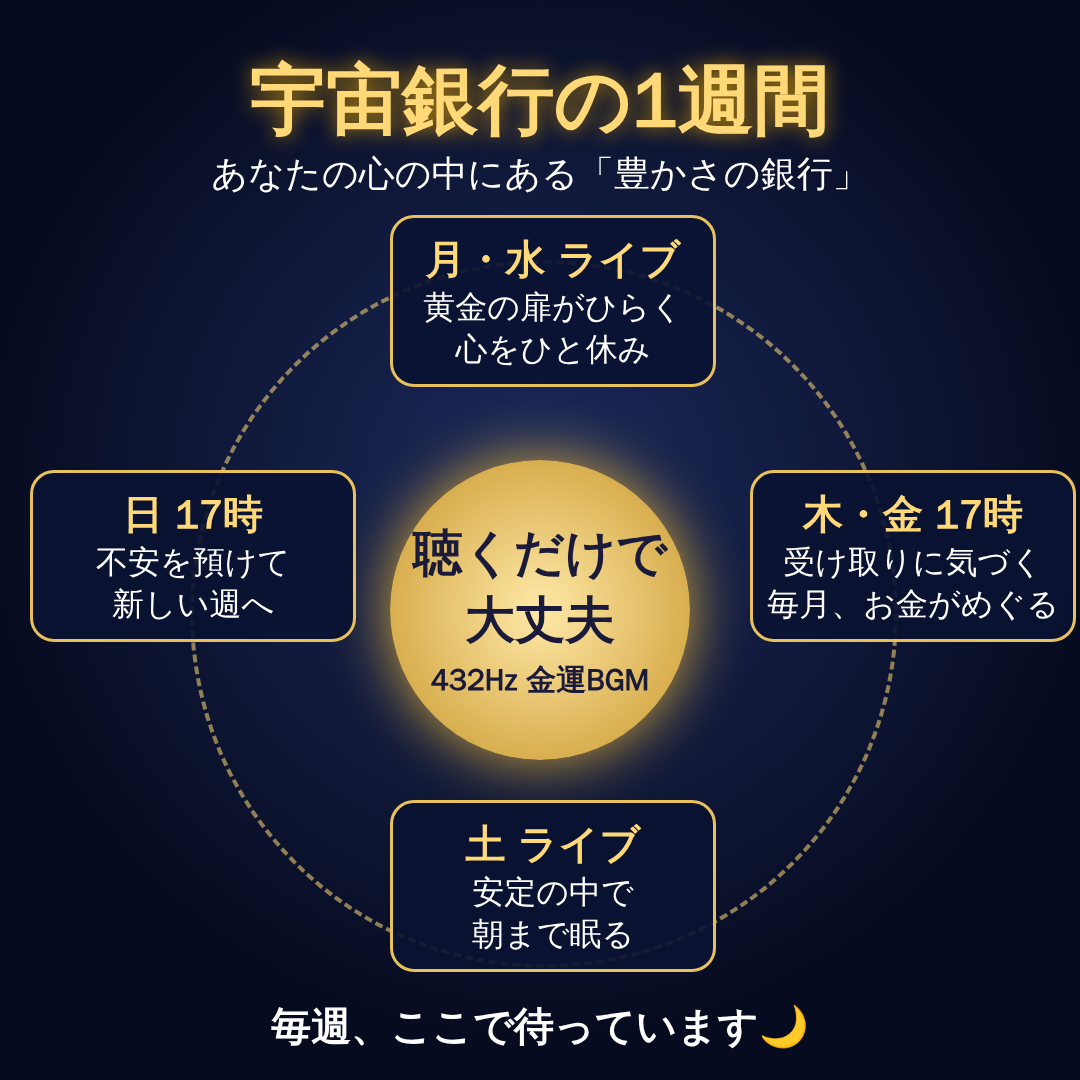
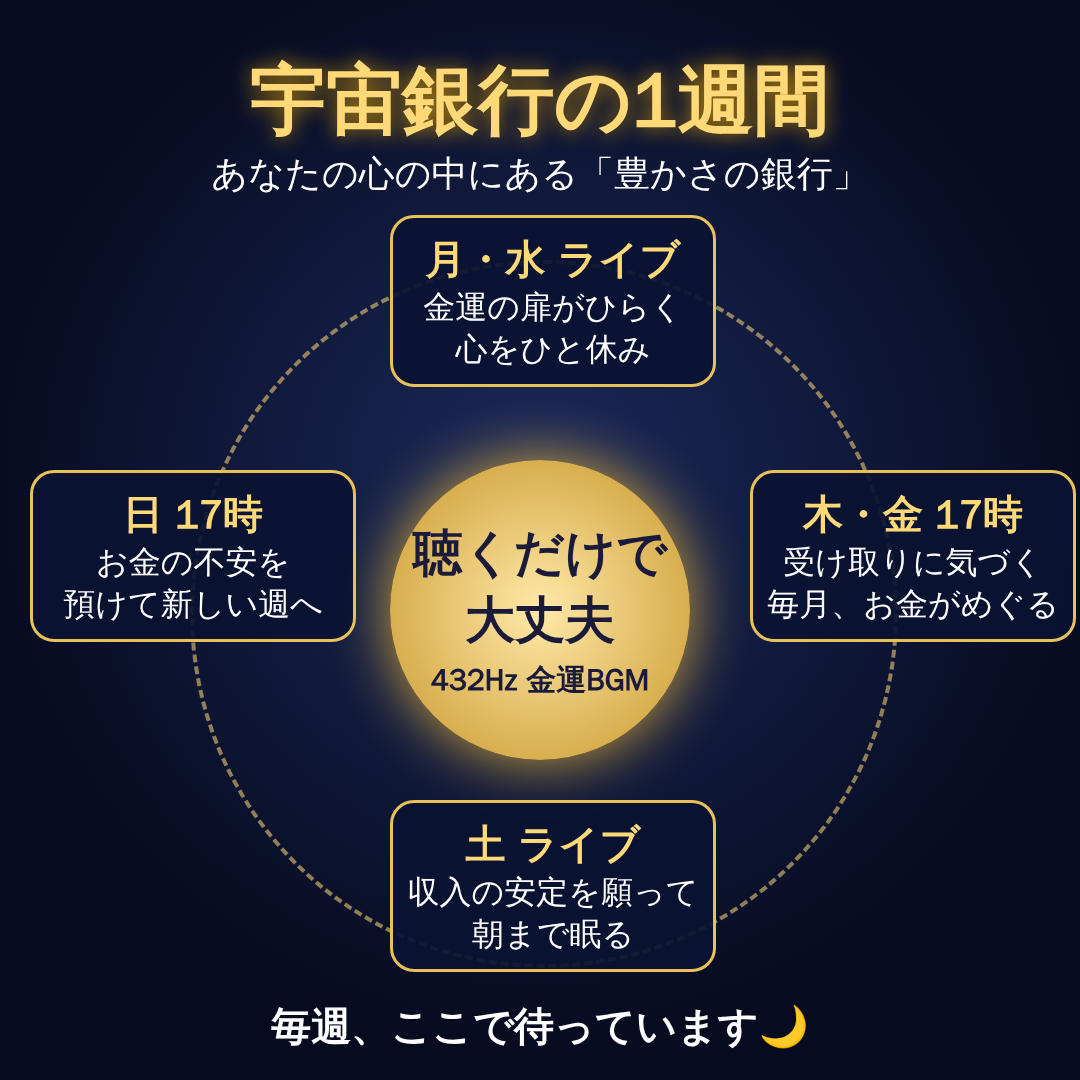
曜日テーマの言葉をわかりやすく修正（金運の扉・収入の安定・お金の不安）
Claude-Session: https://claude.ai/code/session_01UmVDqSetYb3KqKzMfzK3Ct

Changed region(s): [[0.0611, 0.4889, 0.275, 0.5806], [0.3667, 0.7944, 0.6111, 0.8556], [0.3972, 0.275, 0.4583, 0.3056]]

diff --git a/bgm/visual/banner_star.html b/bgm/visual/banner_star.html
@@ -17,9 +17,9 @@ background:radial-gradient(ellipse at 50% 50%,#1d2d63 0%,#0a1030 45%,#050818 80%
 <style>.sky i{position:absolute;border-radius:50%}.sky b{position:absolute;width:60px;height:60px;margin:-30px;background:radial-gradient(circle,#fff 0 3px,rgba(255,230,150,.6) 6px,transparent 30px),linear-gradient(90deg,transparent 45%,rgba(255,240,190,.9) 50%,transparent 55%),linear-gradient(0deg,transparent 45%,rgba(255,240,190,.9) 50%,transparent 55%)}</style><div class="sky"><i style="left:829px;top:217px;width:8px;height:8px;background:#fff;opacity:0.44;box-shadow:0 0 12px #fff"></i><i style="left:1372px;top:527px;width:3.0px;height:3.0px;background:#ffd978;opacity:0.53;box-shadow:0 0 4px #ffd978"></i><i style="left:220px;top:602px;width:4px;height:4px;background:#fff;opacity:0.73;box-shadow:0 0 6px #fff"></i><i style="left:151px;top:814px;width:4px;height:4px;background:#ffd978;opacity:0.78;box-shadow:0 0 6px #ffd978"></i><i style="left:2426px;top:831px;width:5.0px;height:5.0px;background:#fff;opacity:0.99;box-shadow:0 0 8px #fff"></i><i style="left:119px;top:1236px;width:4px;height:4px;background:#fff3c0;opacity:0.49;box-shadow:0 0 6px #fff3c0"></i><i style="left:302px;top:444px;width:8px;height:8px;background:#fff;opacity:0.46;box-shadow:0 0 12px #fff"></i><i style="left:1462px;top:271px;width:3.0px;height:3.0px;background:#ffd978;opacity:0.83;box-shadow:0 0 4px #ffd978"></i><i style="left:1445px;top:891px;width:5.0px;height:5.0px;background:#ffd978;opacity:0.72;box-shadow:0 0 8px #ffd978"></i><i style="left:1990px;top:670px;width:5.0px;height:5.0px;background:#fff3c0;opacity:0.58;box-shadow:0 0 8px #fff3c0"></i><i style="left:2034px;top:1007px;width:4px;height:4px;background:#fff;opacity:0.74;box-shadow:0 0 6px #fff"></i><i style="left:1345px;top:1260px;width:8px;height:8px;background:#fff3c0;opacity:0.57;box-shadow:0 0 12px #fff3c0"></i><i style="left:2509px;top:170px;width:5.0px;height:5.0px;background:#fff;opacity:0.85;box-shadow:0 0 8px #fff"></i><i style="left:389px;top:704px;width:3.0px;height:3.0px;background:#ffd978;opacity:0.45;box-shadow:0 0 4px #ffd978"></i><i style="left:1429px;top:1136px;width:4px;height:4px;background:#fff3c0;opacity:0.82;box-shadow:0 0 6px #fff3c0"></i><i style="left:1522px;top:835px;width:5.0px;height:5.0px;background:#fff;opacity:0.90;box-shadow:0 0 8px #fff"></i><i style="left:2418px;top:683px;width:8px;height:8px;background:#fff;opacity:0.44;box-shadow:0 0 12px #fff"></i><i style="left:1796px;top:932px;width:8px;height:8px;background:#fff3c0;opacity:0.57;box-shadow:0 0 12px #fff3c0"></i><i style="left:988px;top:963px;width:3.0px;height:3.0px;background:#fff3c0;opacity:0.61;box-shadow:0 0 4px #fff3c0"></i><i style="left:1564px;top:711px;width:4px;height:4px;background:#fff3c0;opacity:0.48;box-shadow:0 0 6px #fff3c0"></i><i style="left:634px;top:563px;width:5.0px;height:5.0px;background:#fff;opacity:0.50;box-shadow:0 0 8px #fff"></i><i style="left:1028px;top:400px;width:4px;height:4px;background:#fff3c0;opacity:0.92;box-shadow:0 0 6px #fff3c0"></i><i style="left:713px;top:598px;width:4px;height:4px;background:#ffd978;opacity:0.93;box-shadow:0 0 6px #ffd978"></i><i style="left:2452px;top:217px;width:4px;height:4px;background:#fff;opacity:0.54;box-shadow:0 0 6px #fff"></i><i style="left:597px;top:698px;width:6px;height:6px;background:#fff;opacity:0.56;box-shadow:0 0 9px #fff"></i><i style="left:10px;top:603px;width:4px;height:4px;background:#ffd978;opacity:0.74;box-shadow:0 0 6px #ffd978"></i><i style="left:2440px;top:994px;width:6px;height:6px;background:#ffd978;opacity:0.79;box-shadow:0 0 9px #ffd978"></i><i style="left:1894px;top:658px;width:8px;height:8px;background:#ffd978;opacity:0.64;box-shadow:0 0 12px #ffd978"></i><i style="left:1021px;top:149px;width:8px;height:8px;background:#fff3c0;opacity:0.44;box-shadow:0 0 12px #fff3c0"></i><i style="left:172px;top:301px;width:4px;height:4px;background:#fff;opacity:0.60;box-shadow:0 0 6px #fff"></i><i style="left:135px;top:0px;width:4px;height:4px;background:#ffd978;opacity:0.46;box-shadow:0 0 6px #ffd978"></i><i style="left:931px;top:37px;width:4px;height:4px;background:#ffd978;opacity:0.63;box-shadow:0 0 6px #ffd978"></i><i style="left:1624px;top:1376px;width:6px;height:6px;background:#fff3c0;opacity:0.68;box-shadow:0 0 9px #fff3c0"></i><i style="left:295px;top:703px;width:5.0px;height:5.0px;background:#fff3c0;opacity:0.69;box-shadow:0 0 8px #fff3c0"></i><i style="left:220px;top:147px;width:4px;height:4px;background:#ffd978;opacity:0.56;box-shadow:0 0 6px #ffd978"></i><i style="left:2122px;top:232px;width:3.0px;height:3.0px;background:#fff;opacity:0.97;box-shadow:0 0 4px #fff"></i><i style="left:1352px;top:211px;width:6px;height:6px;background:#fff;opacity:0.85;box-shadow:0 0 9px #fff"></i><i style="left:763px;top:926px;width:3.0px;height:3.0px;background:#ffd978;opacity:0.91;box-shadow:0 0 4px #ffd978"></i><i style="left:1327px;top:1308px;width:4px;height:4px;background:#fff;opacity:0.72;box-shadow:0 0 6px #fff"></i><i style="left:1994px;top:475px;width:4px;height:4px;background:#ffd978;opacity:0.89;box-shadow:0 0 6px #ffd978"></i><i style="left:2521px;top:1228px;width:4px;height:4px;background:#fff3c0;opacity:0.84;box-shadow:0 0 6px #fff3c0"></i><i style="left:580px;top:745px;width:4px;height:4px;background:#ffd978;opacity:0.42;box-shadow:0 0 6px #ffd978"></i><i style="left:72px;top:402px;width:4px;height:4px;background:#fff;opacity:0.82;box-shadow:0 0 6px #fff"></i><i style="left:2449px;top:644px;width:8px;height:8px;background:#fff3c0;opacity:0.97;box-shadow:0 0 12px #fff3c0"></i><i style="left:933px;top:317px;width:4px;height:4px;background:#fff3c0;opacity:0.52;box-shadow:0 0 6px #fff3c0"></i><i style="left:523px;top:899px;width:6px;height:6px;background:#fff;opacity:0.69;box-shadow:0 0 9px #fff"></i><i style="left:1672px;top:1151px;width:3.0px;height:3.0px;background:#ffd978;opacity:0.47;box-shadow:0 0 4px #ffd978"></i><i style="left:995px;top:1025px;width:4px;height:4px;background:#fff3c0;opacity:0.93;box-shadow:0 0 6px #fff3c0"></i><i style="left:1111px;top:916px;width:3.0px;height:3.0px;background:#ffd978;opacity:0.64;box-shadow:0 0 4px #ffd978"></i><i style="left:1028px;top:1363px;width:8px;height:8px;background:#fff;opacity:0.50;box-shadow:0 0 12px #fff"></i><i style="left:325px;top:218px;width:5.0px;height:5.0px;background:#ffd978;opacity:0.49;box-shadow:0 0 8px #ffd978"></i><i style="left:2116px;top:1412px;width:8px;height:8px;background:#fff3c0;opacity:0.49;box-shadow:0 0 12px #fff3c0"></i><i style="left:1404px;top:31px;width:8px;height:8px;background:#ffd978;opacity:0.46;box-shadow:0 0 12px #ffd978"></i><i style="left:1919px;top:201px;width:4px;height:4px;background:#fff;opacity:0.42;box-shadow:0 0 6px #fff"></i><i style="left:545px;top:722px;width:6px;height:6px;background:#fff3c0;opacity:0.56;box-shadow:0 0 9px #fff3c0"></i><i style="left:1073px;top:189px;width:8px;height:8px;background:#fff3c0;opacity:0.94;box-shadow:0 0 12px #fff3c0"></i><i style="left:1696px;top:1174px;width:6px;height:6px;background:#fff3c0;opacity:0.90;box-shadow:0 0 9px #fff3c0"></i><i style="left:2248px;top:188px;width:4px;height:4px;background:#ffd978;opacity:0.71;box-shadow:0 0 6px #ffd978"></i><i style="left:2234px;top:1118px;width:6px;height:6px;background:#fff;opacity:0.87;box-shadow:0 0 9px #fff"></i><i style="left:383px;top:204px;width:6px;height:6px;background:#ffd978;opacity:0.47;box-shadow:0 0 9px #ffd978"></i><i style="left:158px;top:983px;width:6px;height:6px;background:#ffd978;opacity:0.69;box-shadow:0 0 9px #ffd978"></i><i style="left:1988px;top:1272px;width:3.0px;height:3.0px;background:#fff;opacity:0.51;box-shadow:0 0 4px #fff"></i><i style="left:108px;top:141px;width:5.0px;height:5.0px;background:#ffd978;opacity:0.42;box-shadow:0 0 8px #ffd978"></i><i style="left:2289px;top:91px;width:4px;height:4px;background:#ffd978;opacity:0.98;box-shadow:0 0 6px #ffd978"></i><i style="left:1552px;top:287px;width:4px;height:4px;background:#fff3c0;opacity:0.70;box-shadow:0 0 6px #fff3c0"></i><i style="left:2067px;top:731px;width:4px;height:4px;background:#ffd978;opacity:0.71;box-shadow:0 0 6px #ffd978"></i><i style="left:2243px;top:1336px;width:6px;height:6px;background:#fff;opacity:0.90;box-shadow:0 0 9px #fff"></i><i style="left:351px;top:175px;width:5.0px;height:5.0px;background:#fff3c0;opacity:0.44;box-shadow:0 0 8px #fff3c0"></i><i style="left:616px;top:105px;width:8px;height:8px;background:#fff3c0;opacity:0.87;box-shadow:0 0 12px #fff3c0"></i><i style="left:2296px;top:222px;width:8px;height:8px;background:#ffd978;opacity:0.80;box-shadow:0 0 12px #ffd978"></i><i style="left:366px;top:1271px;width:5.0px;height:5.0px;background:#fff;opacity:0.85;box-shadow:0 0 8px #fff"></i><i style="left:241px;top:1274px;width:4px;height:4px;background:#ffd978;opacity:0.90;box-shadow:0 0 6px #ffd978"></i><i style="left:413px;top:621px;width:6px;height:6px;background:#fff3c0;opacity:0.60;box-shadow:0 0 9px #fff3c0"></i><i style="left:501px;top:459px;width:8px;height:8px;background:#fff3c0;opacity:0.41;box-shadow:0 0 12px #fff3c0"></i><i style="left:1418px;top:634px;width:3.0px;height:3.0px;background:#fff3c0;opacity:0.60;box-shadow:0 0 4px #fff3c0"></i><i style="left:1597px;top:738px;width:3.0px;height:3.0px;background:#fff;opacity:0.99;box-shadow:0 0 4px #fff"></i><i style="left:2018px;top:1399px;width:3.0px;height:3.0px;background:#fff;opacity:0.56;box-shadow:0 0 4px #fff"></i><i style="left:101px;top:1122px;width:4px;height:4px;background:#fff;opacity:0.89;box-shadow:0 0 6px #fff"></i><i style="left:2175px;top:973px;width:4px;height:4px;background:#fff3c0;opacity:0.49;box-shadow:0 0 6px #fff3c0"></i><i style="left:2353px;top:822px;width:8px;height:8px;background:#fff3c0;opacity:0.45;box-shadow:0 0 12px #fff3c0"></i><i style="left:147px;top:991px;width:5.0px;height:5.0px;background:#fff;opacity:0.56;box-shadow:0 0 8px #fff"></i><i style="left:43px;top:128px;width:4px;height:4px;background:#fff;opacity:0.76;box-shadow:0 0 6px #fff"></i><i style="left:569px;top:381px;width:3.0px;height:3.0px;background:#fff3c0;opacity:0.41;box-shadow:0 0 4px #fff3c0"></i><i style="left:2545px;top:602px;width:4px;height:4px;background:#ffd978;opacity:0.48;box-shadow:0 0 6px #ffd978"></i><i style="left:1349px;top:343px;width:3.0px;height:3.0px;background:#fff;opacity:0.56;box-shadow:0 0 4px #fff"></i><i style="left:464px;top:1342px;width:8px;height:8px;background:#fff3c0;opacity:0.72;box-shadow:0 0 12px #fff3c0"></i><i style="left:527px;top:642px;width:8px;height:8px;background:#fff;opacity:0.56;box-shadow:0 0 12px #fff"></i><i style="left:2057px;top:1432px;width:3.0px;height:3.0px;background:#fff;opacity:0.41;box-shadow:0 0 4px #fff"></i><i style="left:1294px;top:1408px;width:6px;height:6px;background:#fff3c0;opacity:0.55;box-shadow:0 0 9px #fff3c0"></i><i style="left:1144px;top:948px;width:8px;height:8px;background:#fff3c0;opacity:0.79;box-shadow:0 0 12px #fff3c0"></i><i style="left:1398px;top:1280px;width:6px;height:6px;background:#fff3c0;opacity:0.81;box-shadow:0 0 9px #fff3c0"></i><i style="left:2515px;top:493px;width:8px;height:8px;background:#ffd978;opacity:0.78;box-shadow:0 0 12px #ffd978"></i><i style="left:1036px;top:500px;width:3.0px;height:3.0px;background:#fff;opacity:0.41;box-shadow:0 0 4px #fff"></i><i style="left:1601px;top:1267px;width:5.0px;height:5.0px;background:#fff;opacity:0.43;box-shadow:0 0 8px #fff"></i><i style="left:1703px;top:548px;width:6px;height:6px;background:#ffd978;opacity:0.98;box-shadow:0 0 9px #ffd978"></i><i style="left:1533px;top:997px;width:3.0px;height:3.0px;background:#fff3c0;opacity:0.51;box-shadow:0 0 4px #fff3c0"></i><i style="left:689px;top:5px;width:4px;height:4px;background:#fff3c0;opacity:0.98;box-shadow:0 0 6px #fff3c0"></i><i style="left:1401px;top:352px;width:4px;height:4px;background:#fff;opacity:0.61;box-shadow:0 0 6px #fff"></i><i style="left:3px;top:550px;width:5.0px;height:5.0px;background:#fff3c0;opacity:0.70;box-shadow:0 0 8px #fff3c0"></i><i style="left:515px;top:727px;width:3.0px;height:3.0px;background:#fff;opacity:0.56;box-shadow:0 0 4px #fff"></i><i style="left:230px;top:575px;width:3.0px;height:3.0px;background:#fff3c0;opacity:0.41;box-shadow:0 0 4px #fff3c0"></i><i style="left:779px;top:335px;width:6px;height:6px;background:#ffd978;opacity:0.91;box-shadow:0 0 9px #ffd978"></i><i style="left:397px;top:1286px;width:6px;height:6px;background:#fff3c0;opacity:0.86;box-shadow:0 0 9px #fff3c0"></i><i style="left:1845px;top:712px;width:4px;height:4px;background:#ffd978;opacity:0.77;box-shadow:0 0 6px #ffd978"></i><i style="left:371px;top:1188px;width:8px;height:8px;background:#ffd978;opacity:0.78;box-shadow:0 0 12px #ffd978"></i><i style="left:1879px;top:1170px;width:4px;height:4px;background:#ffd978;opacity:0.85;box-shadow:0 0 6px #ffd978"></i><i style="left:1455px;top:1171px;width:3.0px;height:3.0px;background:#ffd978;opacity:0.75;box-shadow:0 0 4px #ffd978"></i><i style="left:2286px;top:983px;width:8px;height:8px;background:#ffd978;opacity:0.54;box-shadow:0 0 12px #ffd978"></i><i style="left:80px;top:192px;width:4px;height:4px;background:#fff;opacity:0.63;box-shadow:0 0 6px #fff"></i><i style="left:1156px;top:73px;width:3.0px;height:3.0px;background:#ffd978;opacity:0.72;box-shadow:0 0 4px #ffd978"></i><i style="left:626px;top:380px;width:5.0px;height:5.0px;background:#fff;opacity:0.85;box-shadow:0 0 8px #fff"></i><i style="left:1288px;top:771px;width:8px;height:8px;background:#ffd978;opacity:0.44;box-shadow:0 0 12px #ffd978"></i><i style="left:1886px;top:363px;width:3.0px;height:3.0px;background:#fff3c0;opacity:0.54;box-shadow:0 0 4px #fff3c0"></i><i style="left:1936px;top:332px;width:8px;height:8px;background:#fff3c0;opacity:0.70;box-shadow:0 0 12px #fff3c0"></i><i style="left:979px;top:690px;width:8px;height:8px;background:#fff3c0;opacity:0.86;box-shadow:0 0 12px #fff3c0"></i><i style="left:1579px;top:926px;width:3.0px;height:3.0px;background:#ffd978;opacity:0.49;box-shadow:0 0 4px #ffd978"></i><i style="left:650px;top:1070px;width:4px;height:4px;background:#ffd978;opacity:0.74;box-shadow:0 0 6px #ffd978"></i><i style="left:32px;top:87px;width:4px;height:4px;background:#ffd978;opacity:0.46;box-shadow:0 0 6px #ffd978"></i><i style="left:557px;top:705px;width:8px;height:8px;background:#ffd978;opacity:0.57;box-shadow:0 0 12px #ffd978"></i><i style="left:1193px;top:1105px;width:6px;height:6px;background:#fff;opacity:0.59;box-shadow:0 0 9px #fff"></i><i style="left:220px;top:681px;width:4px;height:4px;background:#fff3c0;opacity:0.45;box-shadow:0 0 6px #fff3c0"></i><i style="left:1297px;top:1432px;width:4px;height:4px;background:#fff3c0;opacity:0.53;box-shadow:0 0 6px #fff3c0"></i><i style="left:2421px;top:303px;width:6px;height:6px;background:#fff;opacity:0.49;box-shadow:0 0 9px #fff"></i><i style="left:1342px;top:1372px;width:4px;height:4px;background:#ffd978;opacity:0.89;box-shadow:0 0 6px #ffd978"></i><i style="left:1302px;top:1277px;width:8px;height:8px;background:#fff3c0;opacity:0.54;box-shadow:0 0 12px #fff3c0"></i><i style="left:2298px;top:700px;width:3.0px;height:3.0px;background:#fff;opacity:0.40;box-shadow:0 0 4px #fff"></i><i style="left:1259px;top:649px;width:4px;height:4px;background:#ffd978;opacity:0.48;box-shadow:0 0 6px #ffd978"></i><i style="left:881px;top:455px;width:4px;height:4px;background:#fff;opacity:0.59;box-shadow:0 0 6px #fff"></i><i style="left:866px;top:573px;width:4px;height:4px;background:#ffd978;opacity:0.41;box-shadow:0 0 6px #ffd978"></i><i style="left:1894px;top:365px;width:3.0px;height:3.0px;background:#fff3c0;opacity:0.63;box-shadow:0 0 4px #fff3c0"></i><i style="left:2227px;top:110px;width:5.0px;height:5.0px;background:#fff3c0;opacity:0.91;box-shadow:0 0 8px #fff3c0"></i><i style="left:718px;top:74px;width:8px;height:8px;background:#fff3c0;opacity:0.78;box-shadow:0 0 12px #fff3c0"></i><i style="left:381px;top:1398px;width:5.0px;height:5.0px;background:#ffd978;opacity:0.59;box-shadow:0 0 8px #ffd978"></i><i style="left:1979px;top:1131px;width:5.0px;height:5.0px;background:#fff;opacity:0.89;box-shadow:0 0 8px #fff"></i><i style="left:1615px;top:1315px;width:6px;height:6px;background:#ffd978;opacity:0.52;box-shadow:0 0 9px #ffd978"></i><i style="left:206px;top:1344px;width:5.0px;height:5.0px;background:#fff3c0;opacity:0.77;box-shadow:0 0 8px #fff3c0"></i><i style="left:355px;top:1252px;width:5.0px;height:5.0px;background:#fff;opacity:0.95;box-shadow:0 0 8px #fff"></i><i style="left:1408px;top:246px;width:5.0px;height:5.0px;background:#fff3c0;opacity:0.57;box-shadow:0 0 8px #fff3c0"></i><i style="left:655px;top:1064px;width:8px;height:8px;background:#fff3c0;opacity:0.64;box-shadow:0 0 12px #fff3c0"></i><i style="left:611px;top:696px;width:8px;height:8px;background:#fff3c0;opacity:0.47;box-shadow:0 0 12px #fff3c0"></i><i style="left:1647px;top:108px;width:6px;height:6px;background:#fff3c0;opacity:0.73;box-shadow:0 0 9px #fff3c0"></i><i style="left:1160px;top:479px;width:5.0px;height:5.0px;background:#fff3c0;opacity:0.48;box-shadow:0 0 8px #fff3c0"></i><i style="left:493px;top:131px;width:4px;height:4px;background:#ffd978;opacity:0.45;box-shadow:0 0 6px #ffd978"></i><i style="left:612px;top:372px;width:6px;height:6px;background:#fff;opacity:0.93;box-shadow:0 0 9px #fff"></i><i style="left:1919px;top:594px;width:5.0px;height:5.0px;background:#ffd978;opacity:0.71;box-shadow:0 0 8px #ffd978"></i><i style="left:965px;top:487px;width:3.0px;height:3.0px;background:#fff3c0;opacity:0.57;box-shadow:0 0 4px #fff3c0"></i><i style="left:2477px;top:181px;width:6px;height:6px;background:#ffd978;opacity:0.78;box-shadow:0 0 9px #ffd978"></i><i style="left:2209px;top:311px;width:4px;height:4px;background:#fff;opacity:0.63;box-shadow:0 0 6px #fff"></i><i style="left:1653px;top:622px;width:4px;height:4px;background:#fff;opacity:0.48;box-shadow:0 0 6px #fff"></i><i style="left:1089px;top:1100px;width:5.0px;height:5.0px;background:#ffd978;opacity:0.69;box-shadow:0 0 8px #ffd978"></i><i style="left:187px;top:1340px;width:6px;height:6px;background:#fff3c0;opacity:0.98;box-shadow:0 0 9px #fff3c0"></i><i style="left:636px;top:157px;width:4px;height:4px;background:#fff;opacity:0.71;box-shadow:0 0 6px #fff"></i><i style="left:1746px;top:1356px;width:8px;height:8px;background:#ffd978;opacity:0.79;box-shadow:0 0 12px #ffd978"></i><i style="left:1958px;top:659px;width:6px;height:6px;background:#fff;opacity:0.40;box-shadow:0 0 9px #fff"></i><i style="left:322px;top:820px;width:3.0px;height:3.0px;background:#ffd978;opacity:0.83;box-shadow:0 0 4px #ffd978"></i><i style="left:2464px;top:902px;width:6px;height:6px;background:#ffd978;opacity:0.66;box-shadow:0 0 9px #ffd978"></i><i style="left:1955px;top:143px;width:4px;height:4px;background:#ffd978;opacity:0.97;box-shadow:0 0 6px #ffd978"></i><i style="left:491px;top:376px;width:6px;height:6px;background:#fff;opacity:0.41;box-shadow:0 0 9px #fff"></i><i style="left:772px;top:663px;width:4px;height:4px;background:#ffd978;opacity:0.90;box-shadow:0 0 6px #ffd978"></i><i style="left:620px;top:758px;width:6px;height:6px;background:#fff;opacity:0.42;box-shadow:0 0 9px #fff"></i><i style="left:1054px;top:935px;width:3.0px;height:3.0px;background:#fff;opacity:0.52;box-shadow:0 0 4px #fff"></i><i style="left:2265px;top:932px;width:3.0px;height:3.0px;background:#fff3c0;opacity:0.54;box-shadow:0 0 4px #fff3c0"></i><i style="left:1086px;top:533px;width:5.0px;height:5.0px;background:#fff;opacity:0.82;box-shadow:0 0 8px #fff"></i><i style="left:1839px;top:522px;width:5.0px;height:5.0px;background:#fff;opacity:0.40;box-shadow:0 0 8px #fff"></i><i style="left:748px;top:1217px;width:3.0px;height:3.0px;background:#fff;opacity:0.70;box-shadow:0 0 4px #fff"></i><i style="left:513px;top:1103px;width:4px;height:4px;background:#fff;opacity:0.68;box-shadow:0 0 6px #fff"></i><i style="left:678px;top:1281px;width:3.0px;height:3.0px;background:#ffd978;opacity:0.70;box-shadow:0 0 4px #ffd978"></i><i style="left:480px;top:322px;width:5.0px;height:5.0px;background:#ffd978;opacity:0.43;box-shadow:0 0 8px #ffd978"></i><i style="left:1523px;top:1328px;width:3.0px;height:3.0px;background:#fff;opacity:0.41;box-shadow:0 0 4px #fff"></i><i style="left:1526px;top:598px;width:8px;height:8px;background:#fff;opacity:0.51;box-shadow:0 0 12px #fff"></i><i style="left:1151px;top:1025px;width:4px;height:4px;background:#ffd978;opacity:0.47;box-shadow:0 0 6px #ffd978"></i><i style="left:203px;top:239px;width:4px;height:4px;background:#fff;opacity:0.79;box-shadow:0 0 6px #fff"></i><i style="left:1343px;top:673px;width:4px;height:4px;background:#ffd978;opacity:0.84;box-shadow:0 0 6px #ffd978"></i><i style="left:2148px;top:1418px;width:5.0px;height:5.0px;background:#fff;opacity:0.47;box-shadow:0 0 8px #fff"></i><i style="left:200px;top:116px;width:5.0px;height:5.0px;background:#fff;opacity:0.74;box-shadow:0 0 8px #fff"></i><i style="left:1943px;top:547px;width:4px;height:4px;background:#fff3c0;opacity:0.45;box-shadow:0 0 6px #fff3c0"></i><i style="left:1805px;top:282px;width:6px;height:6px;background:#fff3c0;opacity:0.52;box-shadow:0 0 9px #fff3c0"></i><i style="left:932px;top:1292px;width:3.0px;height:3.0px;background:#ffd978;opacity:0.65;box-shadow:0 0 4px #ffd978"></i><i style="left:2078px;top:1104px;width:3.0px;height:3.0px;background:#fff3c0;opacity:0.42;box-shadow:0 0 4px #fff3c0"></i><i style="left:160px;top:1325px;width:4px;height:4px;background:#fff;opacity:0.85;box-shadow:0 0 6px #fff"></i><i style="left:2300px;top:488px;width:4px;height:4px;background:#fff3c0;opacity:0.97;box-shadow:0 0 6px #fff3c0"></i><i style="left:1579px;top:378px;width:8px;height:8px;background:#ffd978;opacity:0.59;box-shadow:0 0 12px #ffd978"></i><i style="left:706px;top:5px;width:6px;height:6px;background:#ffd978;opacity:0.97;box-shadow:0 0 9px #ffd978"></i><i style="left:167px;top:1189px;width:3.0px;height:3.0px;background:#fff3c0;opacity:0.83;box-shadow:0 0 4px #fff3c0"></i><i style="left:1192px;top:1118px;width:4px;height:4px;background:#fff3c0;opacity:0.89;box-shadow:0 0 6px #fff3c0"></i><i style="left:340px;top:715px;width:3.0px;height:3.0px;background:#ffd978;opacity:0.58;box-shadow:0 0 4px #ffd978"></i><i style="left:1772px;top:218px;width:4px;height:4px;background:#fff3c0;opacity:0.92;box-shadow:0 0 6px #fff3c0"></i><i style="left:1180px;top:1129px;width:6px;height:6px;background:#fff;opacity:0.71;box-shadow:0 0 9px #fff"></i><i style="left:1003px;top:230px;width:5.0px;height:5.0px;background:#fff;opacity:0.79;box-shadow:0 0 8px #fff"></i><i style="left:1233px;top:784px;width:4px;height:4px;background:#fff3c0;opacity:0.93;box-shadow:0 0 6px #fff3c0"></i><i style="left:2529px;top:381px;width:3.0px;height:3.0px;background:#fff;opacity:0.46;box-shadow:0 0 4px #fff"></i><i style="left:1276px;top:1022px;width:5.0px;height:5.0px;background:#fff;opacity:0.54;box-shadow:0 0 8px #fff"></i><i style="left:1067px;top:893px;width:8px;height:8px;background:#fff;opacity:0.85;box-shadow:0 0 12px #fff"></i><i style="left:2168px;top:957px;width:3.0px;height:3.0px;background:#fff3c0;opacity:0.58;box-shadow:0 0 4px #fff3c0"></i><i style="left:1451px;top:537px;width:8px;height:8px;background:#fff3c0;opacity:0.52;box-shadow:0 0 12px #fff3c0"></i><i style="left:633px;top:353px;width:4px;height:4px;background:#fff3c0;opacity:0.93;box-shadow:0 0 6px #fff3c0"></i><i style="left:1480px;top:470px;width:5.0px;height:5.0px;background:#fff3c0;opacity:1.00;box-shadow:0 0 8px #fff3c0"></i><i style="left:1299px;top:333px;width:3.0px;height:3.0px;background:#ffd978;opacity:0.68;box-shadow:0 0 4px #ffd978"></i><i style="left:95px;top:6px;width:4px;height:4px;background:#fff3c0;opacity:0.95;box-shadow:0 0 6px #fff3c0"></i><i style="left:103px;top:423px;width:3.0px;height:3.0px;background:#fff;opacity:0.51;box-shadow:0 0 4px #fff"></i><i style="left:2491px;top:840px;width:3.0px;height:3.0px;background:#fff3c0;opacity:0.71;box-shadow:0 0 4px #fff3c0"></i><i style="left:455px;top:868px;width:8px;height:8px;background:#fff;opacity:0.46;box-shadow:0 0 12px #fff"></i><i style="left:1526px;top:893px;width:4px;height:4px;background:#fff;opacity:0.62;box-shadow:0 0 6px #fff"></i><i style="left:362px;top:294px;width:4px;height:4px;background:#fff;opacity:0.76;box-shadow:0 0 6px #fff"></i><i style="left:1668px;top:293px;width:3.0px;height:3.0px;background:#fff3c0;opacity:0.65;box-shadow:0 0 4px #fff3c0"></i><i style="left:952px;top:894px;width:3.0px;height:3.0px;background:#fff;opacity:0.42;box-shadow:0 0 4px #fff"></i><i style="left:1269px;top:696px;width:5.0px;height:5.0px;background:#fff;opacity:0.88;box-shadow:0 0 8px #fff"></i><i style="left:1700px;top:223px;width:6px;height:6px;background:#fff;opacity:0.79;box-shadow:0 0 9px #fff"></i><i style="left:1018px;top:390px;width:4px;height:4px;background:#ffd978;opacity:0.58;box-shadow:0 0 6px #ffd978"></i><i style="left:2440px;top:450px;width:6px;height:6px;background:#fff3c0;opacity:0.65;box-shadow:0 0 9px #fff3c0"></i><i style="left:47px;top:1104px;width:4px;height:4px;background:#ffd978;opacity:0.52;box-shadow:0 0 6px #ffd978"></i><i style="left:1864px;top:293px;width:3.0px;height:3.0px;background:#fff3c0;opacity:0.94;box-shadow:0 0 4px #fff3c0"></i><i style="left:1085px;top:1181px;width:5.0px;height:5.0px;background:#ffd978;opacity:0.93;box-shadow:0 0 8px #ffd978"></i><i style="left:1180px;top:234px;width:3.0px;height:3.0px;background:#fff;opacity:0.73;box-shadow:0 0 4px #fff"></i><i style="left:1640px;top:1310px;width:3.0px;height:3.0px;background:#ffd978;opacity:0.77;box-shadow:0 0 4px #ffd978"></i><i style="left:949px;top:726px;width:4px;height:4px;background:#fff3c0;opacity:0.57;box-shadow:0 0 6px #fff3c0"></i><i style="left:1334px;top:1333px;width:3.0px;height:3.0px;background:#fff3c0;opacity:0.69;box-shadow:0 0 4px #fff3c0"></i><i style="left:2060px;top:1392px;width:4px;height:4px;background:#fff3c0;opacity:0.48;box-shadow:0 0 6px #fff3c0"></i><i style="left:2414px;top:1405px;width:5.0px;height:5.0px;background:#fff3c0;opacity:0.43;box-shadow:0 0 8px #fff3c0"></i><i style="left:2371px;top:559px;width:8px;height:8px;background:#ffd978;opacity:0.81;box-shadow:0 0 12px #ffd978"></i><i style="left:2281px;top:922px;width:4px;height:4px;background:#ffd978;opacity:0.64;box-shadow:0 0 6px #ffd978"></i><i style="left:2167px;top:1194px;width:4px;height:4px;background:#ffd978;opacity:0.53;box-shadow:0 0 6px #ffd978"></i><i style="left:1023px;top:746px;width:5.0px;height:5.0px;background:#fff3c0;opacity:0.47;box-shadow:0 0 8px #fff3c0"></i><i style="left:632px;top:1044px;width:4px;height:4px;background:#fff;opacity:0.93;box-shadow:0 0 6px #fff"></i><i style="left:2157px;top:968px;width:8px;height:8px;background:#fff3c0;opacity:0.47;box-shadow:0 0 12px #fff3c0"></i><i style="left:1535px;top:792px;width:8px;height:8px;background:#fff3c0;opacity:0.79;box-shadow:0 0 12px #fff3c0"></i><i style="left:789px;top:359px;width:5.0px;height:5.0px;background:#ffd978;opacity:0.62;box-shadow:0 0 8px #ffd978"></i><i style="left:1289px;top:257px;width:3.0px;height:3.0px;background:#ffd978;opacity:0.99;box-shadow:0 0 4px #ffd978"></i><i style="left:1191px;top:643px;width:6px;height:6px;background:#fff3c0;opacity:0.90;box-shadow:0 0 9px #fff3c0"></i><i style="left:2075px;top:576px;width:3.0px;height:3.0px;background:#fff;opacity:0.62;box-shadow:0 0 4px #fff"></i><i style="left:935px;top:1155px;width:6px;height:6px;background:#ffd978;opacity:0.79;box-shadow:0 0 9px #ffd978"></i><i style="left:104px;top:188px;width:8px;height:8px;background:#fff3c0;opacity:0.87;box-shadow:0 0 12px #fff3c0"></i><i style="left:1309px;top:78px;width:6px;height:6px;background:#fff3c0;opacity:0.79;box-shadow:0 0 9px #fff3c0"></i><i style="left:2008px;top:37px;width:3.0px;height:3.0px;background:#ffd978;opacity:0.84;box-shadow:0 0 4px #ffd978"></i><i style="left:2086px;top:279px;width:5.0px;height:5.0px;background:#fff3c0;opacity:0.97;box-shadow:0 0 8px #fff3c0"></i><i style="left:2345px;top:238px;width:8px;height:8px;background:#fff;opacity:0.44;box-shadow:0 0 12px #fff"></i><i style="left:898px;top:1089px;width:4px;height:4px;background:#fff3c0;opacity:0.94;box-shadow:0 0 6px #fff3c0"></i><i style="left:704px;top:1175px;width:4px;height:4px;background:#fff3c0;opacity:0.70;box-shadow:0 0 6px #fff3c0"></i><i style="left:2355px;top:300px;width:4px;height:4px;background:#ffd978;opacity:0.70;box-shadow:0 0 6px #ffd978"></i><i style="left:817px;top:53px;width:4px;height:4px;background:#fff3c0;opacity:0.50;box-shadow:0 0 6px #fff3c0"></i><i style="left:2397px;top:979px;width:5.0px;height:5.0px;background:#fff;opacity:0.88;box-shadow:0 0 8px #fff"></i><i style="left:677px;top:1106px;width:3.0px;height:3.0px;background:#ffd978;opacity:0.91;box-shadow:0 0 4px #ffd978"></i><i style="left:2473px;top:652px;width:6px;height:6px;background:#ffd978;opacity:0.81;box-shadow:0 0 9px #ffd978"></i><i style="left:2294px;top:363px;width:6px;height:6px;background:#ffd978;opacity:0.91;box-shadow:0 0 9px #ffd978"></i><i style="left:1889px;top:535px;width:5.0px;height:5.0px;background:#fff3c0;opacity:0.75;box-shadow:0 0 8px #fff3c0"></i><i style="left:922px;top:1101px;width:5.0px;height:5.0px;background:#fff;opacity:0.51;box-shadow:0 0 8px #fff"></i><i style="left:1904px;top:70px;width:6px;height:6px;background:#fff3c0;opacity:0.59;box-shadow:0 0 9px #fff3c0"></i><i style="left:2473px;top:1253px;width:8px;height:8px;background:#fff3c0;opacity:0.84;box-shadow:0 0 12px #fff3c0"></i><i style="left:1913px;top:319px;width:4px;height:4px;background:#ffd978;opacity:0.78;box-shadow:0 0 6px #ffd978"></i><i style="left:1069px;top:524px;width:3.0px;height:3.0px;background:#fff;opacity:0.69;box-shadow:0 0 4px #fff"></i><i style="left:1568px;top:66px;width:3.0px;height:3.0px;background:#fff;opacity:0.74;box-shadow:0 0 4px #fff"></i><i style="left:778px;top:753px;width:6px;height:6px;background:#fff;opacity:0.65;box-shadow:0 0 9px #fff"></i><i style="left:771px;top:193px;width:4px;height:4px;background:#ffd978;opacity:0.90;box-shadow:0 0 6px #ffd978"></i><i style="left:406px;top:20px;width:4px;height:4px;background:#ffd978;opacity:0.49;box-shadow:0 0 6px #ffd978"></i><i style="left:245px;top:919px;width:8px;height:8px;background:#fff3c0;opacity:0.64;box-shadow:0 0 12px #fff3c0"></i><i style="left:676px;top:17px;width:8px;height:8px;background:#ffd978;opacity:0.94;box-shadow:0 0 12px #ffd978"></i><i style="left:1522px;top:833px;width:6px;height:6px;background:#ffd978;opacity:0.84;box-shadow:0 0 9px #ffd978"></i><i style="left:636px;top:1301px;width:3.0px;height:3.0px;background:#fff;opacity:0.72;box-shadow:0 0 4px #fff"></i><i style="left:1039px;top:342px;width:3.0px;height:3.0px;background:#fff;opacity:0.41;box-shadow:0 0 4px #fff"></i><i style="left:1410px;top:1355px;width:4px;height:4px;background:#fff3c0;opacity:0.52;box-shadow:0 0 6px #fff3c0"></i><b style="left:1535px;top:729px"></b><b style="left:1614px;top:1121px"></b><b style="left:512px;top:476px"></b><b style="left:809px;top:142px"></b><b style="left:2199px;top:1082px"></b><b style="left:1788px;top:88px"></b><b style="left:2093px;top:1034px"></b><b style="left:1198px;top:1029px"></b><b style="left:1168px;top:369px"></b><b style="left:348px;top:377px"></b><b style="left:192px;top:509px"></b><b style="left:1869px;top:970px"></b><b style="left:2095px;top:991px"></b><b style="left:728px;top:789px"></b></div><div class="safe">
  <div class="l"><div class="t">聴くだけで<br>大丈夫</div><div class="s">あなたの心の中にある<br>「豊かさの銀行」</div></div>
  <div class="r">
-  <div class="n"><div class="d">月18時・水12時</div><div class="x">ライブ｜黄金の扉がひらく</div></div>
+  <div class="n"><div class="d">月18時・水12時</div><div class="x">ライブ｜金運の扉がひらく</div></div>
   <div class="n"><div class="d">木・金 17時</div><div class="x">毎月、お金がめぐる</div></div>
-  <div class="n"><div class="d">土 18時</div><div class="x">ライブ｜安心して眠る</div></div>
-  <div class="n"><div class="d">日 17時</div><div class="x">不安を預けて新しい週へ</div></div>
+  <div class="n"><div class="d">土 18時</div><div class="x">ライブ｜収入の安定を願う</div></div>
+  <div class="n"><div class="d">日 17時</div><div class="x">お金の不安を預けて眠る</div></div>
  </div>
 </div></body></html>

diff --git a/bgm/visual/week.html b/bgm/visual/week.html
@@ -15,9 +15,9 @@ body{margin:0;width:1080px;height:1080px;background:radial-gradient(circle at 50
 <div class="s">あなたの心の中にある「豊かさの銀行」</div>
 <div class="ring"></div>
 <div class="c"><b>聴くだけで<br>大丈夫</b><span>432Hz 金運BGM</span></div>
-<div class="n" style="left:390px;top:215px"><div class="d">月・水 ライブ</div><div class="x">黄金の扉がひらく<br>心をひと休み</div></div>
+<div class="n" style="left:390px;top:215px"><div class="d">月・水 ライブ</div><div class="x">金運の扉がひらく<br>心をひと休み</div></div>
 <div class="n" style="left:750px;top:470px;width:300px"><div class="d">木・金 17時</div><div class="x">受け取りに気づく<br>毎月、お金がめぐる</div></div>
-<div class="n" style="left:390px;top:800px"><div class="d">土 ライブ</div><div class="x">安定の中で<br>朝まで眠る</div></div>
-<div class="n" style="left:30px;top:470px;width:300px"><div class="d">日 17時</div><div class="x">不安を預けて<br>新しい週へ</div></div>
+<div class="n" style="left:390px;top:800px"><div class="d">土 ライブ</div><div class="x">収入の安定を願って<br>朝まで眠る</div></div>
+<div class="n" style="left:30px;top:470px;width:300px"><div class="d">日 17時</div><div class="x">お金の不安を<br>預けて新しい週へ</div></div>
 <div class="f">毎週、ここで待っています🌙</div>
 </body></html>

diff --git a/CLAUDE.md b/CLAUDE.md
@@ -167,12 +167,13 @@
 ### 曜日テーマ案（2026-10-01・「ずっと続く安心」軸で見直し。本人と検討中）
 | 曜日 | 形 | テーマ（体験） | キーワード | 本の曜日テーマ |
 |---|---|---|---|---|
-| 月 | ライブ18時〜 | 新しい週、黄金の扉がひらく（ワクワク・予祝） | 扉がひらく・ラッキータイム・おみくじ | — |
+| 月 | ライブ18時〜 | 新しい週、金運の扉がひらく（ワクワク・予祝） | 扉がひらく・ラッキータイム・おみくじ | — |
 | 水 | ライブ12時〜 | 週の真ん中でひと休み（整える） | 考えすぎる心を休める・聴くだけ | — |
 | 木 | 3時間 | 思いがけない受け取りに気づく | 臨時収入・受け取っていた | 受け取ったもの3つ |
 | 金 | 3時間 | **毎月、お金がめぐってくる**（旧：高額当選） | 毎月入り続ける・運を味方に | 小さなラッキー |
-| 土 | ライブ18時〜 | 一生お金に困らない安定の中で眠る | 何もしなくて大丈夫・安定 | 今の自分を確かめる |
-| 日 | 3時間 | 残高を見るのが怖い夜に、不安を預ける | もうお金の心配はいりません | お預けした不安 |
+| 土 | ライブ18時〜 | 収入の安定を願って朝まで眠る | 何もしなくて大丈夫・安定 | 今の自分を確かめる |
+| 日 | 3時間 | 残高を見るのが怖い夜に、お金の不安を預ける | もうお金の心配はいりません | お預けした不安 |
+- 言葉の決まり（2026-10-01本人）：「黄金の扉」はわかりにくいので**「金運の扉」**、「安定」は**「収入の安定」**、「不安」は**「お金の不安」**と具体的に書く
 - 金曜は2026-10-02から「毎月めぐってくる」の言葉で試す（高額当選は新しい視聴者が10人しか来なかった）
 
 ### 次のアンケート案（2026-10-01作成、10/6（火）15:30予定）「宇宙銀行を聴いていて、いちばん近い気持ち」
